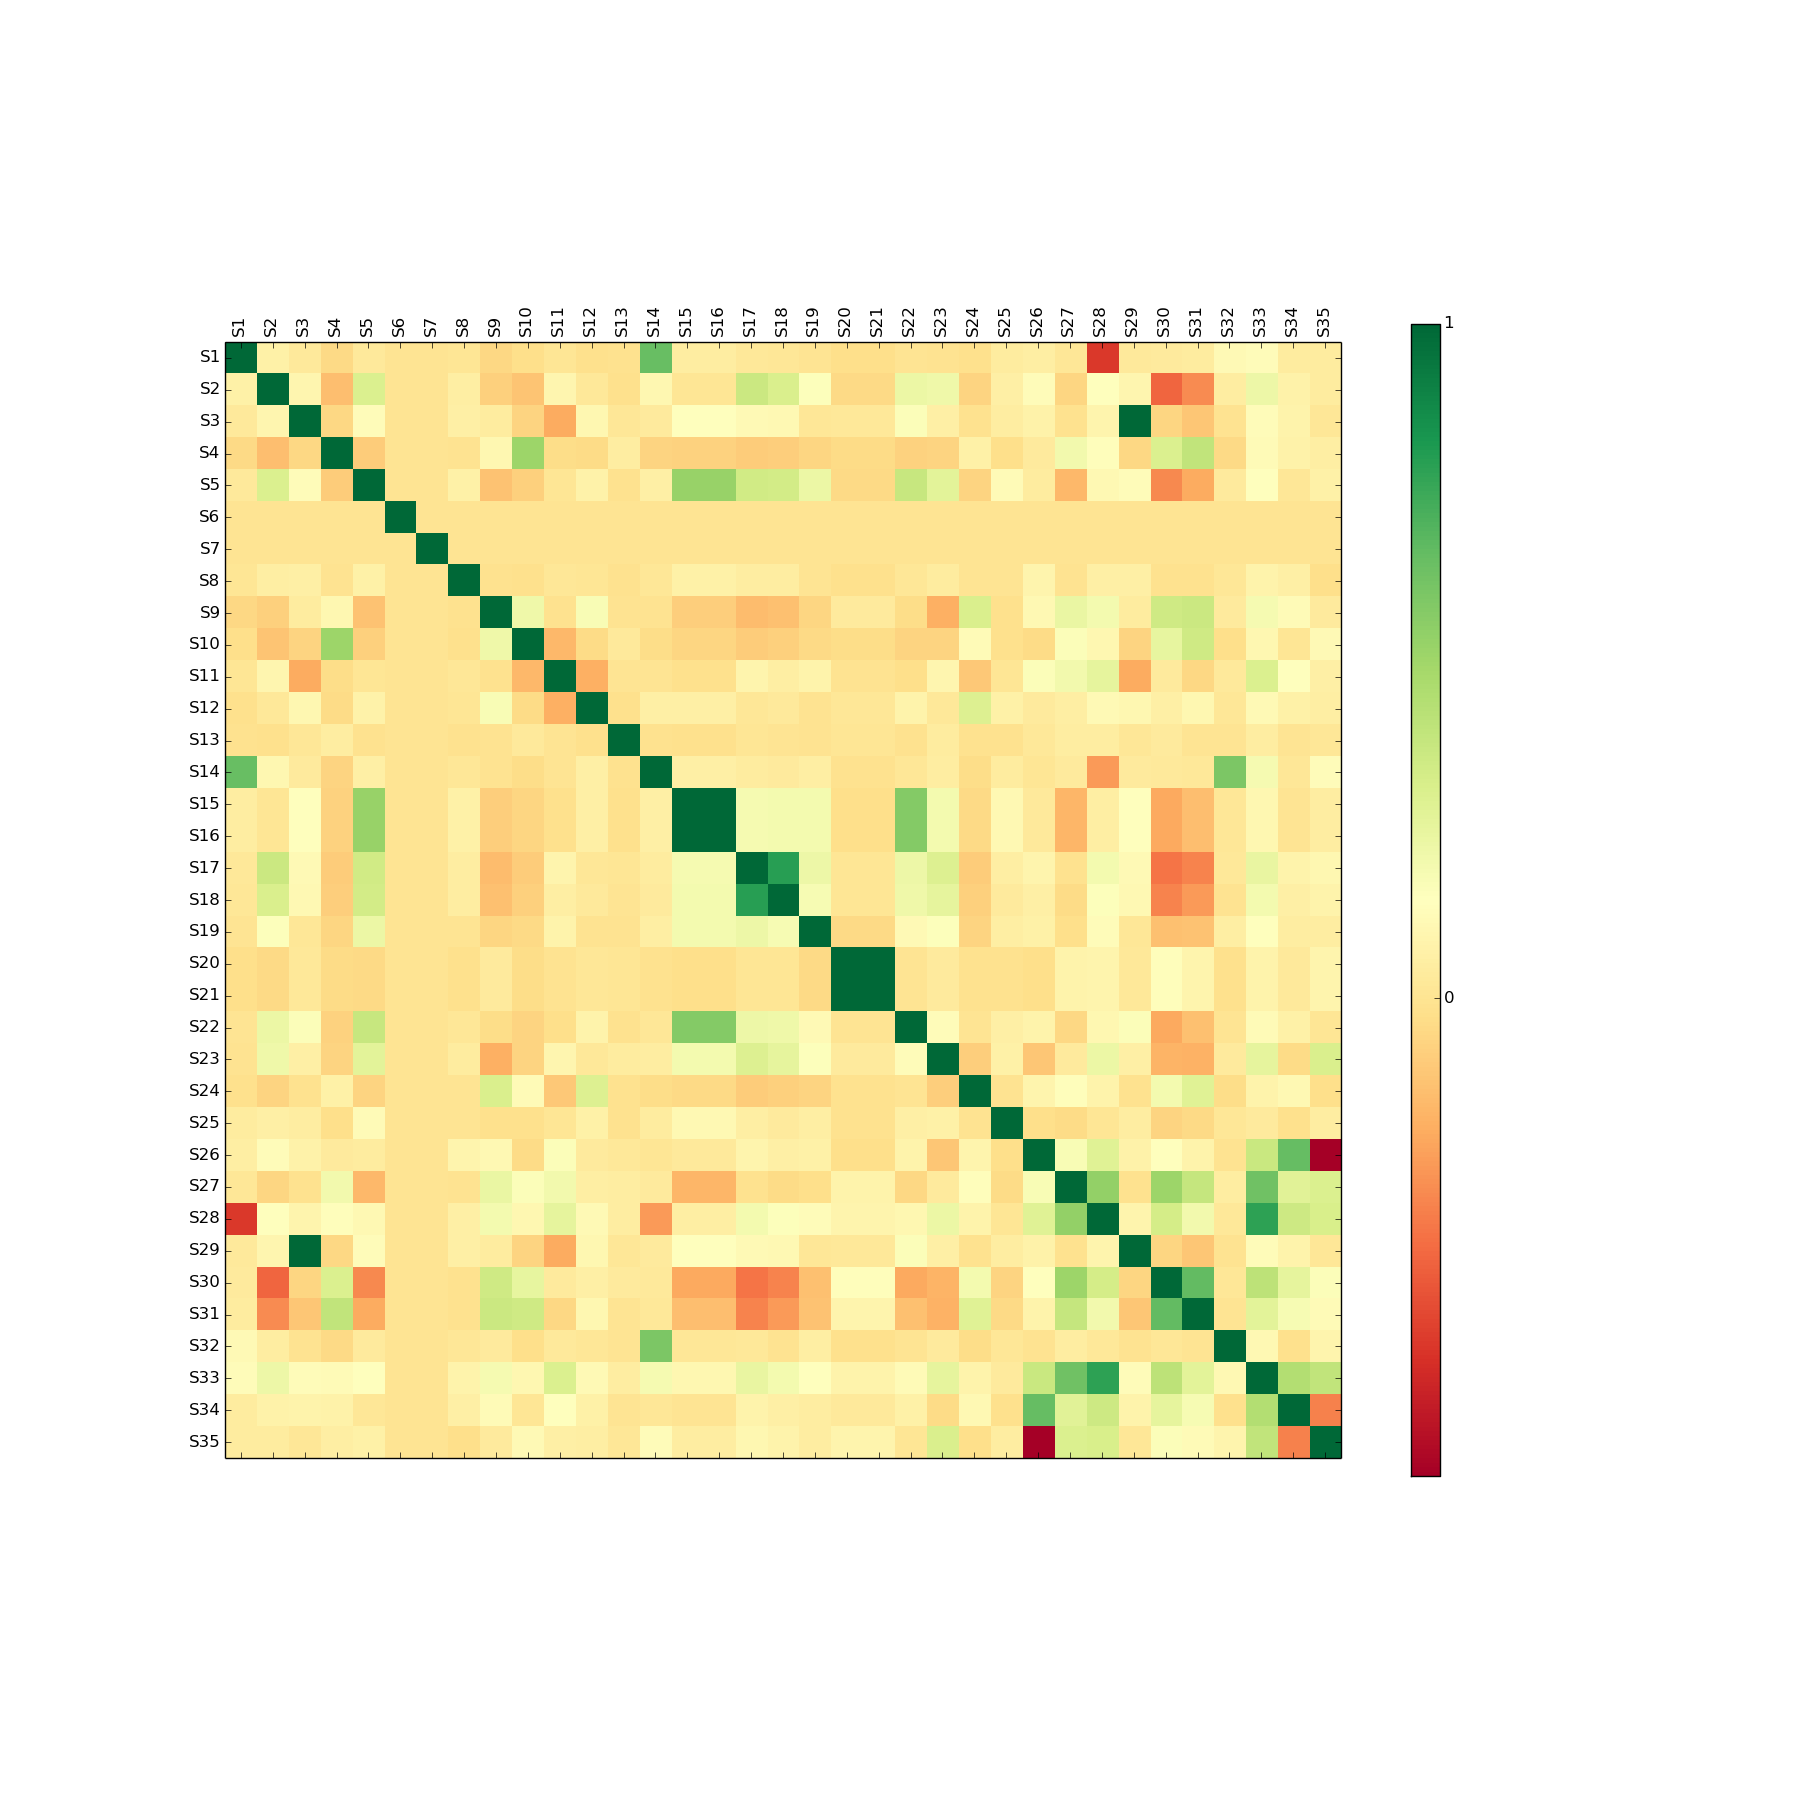
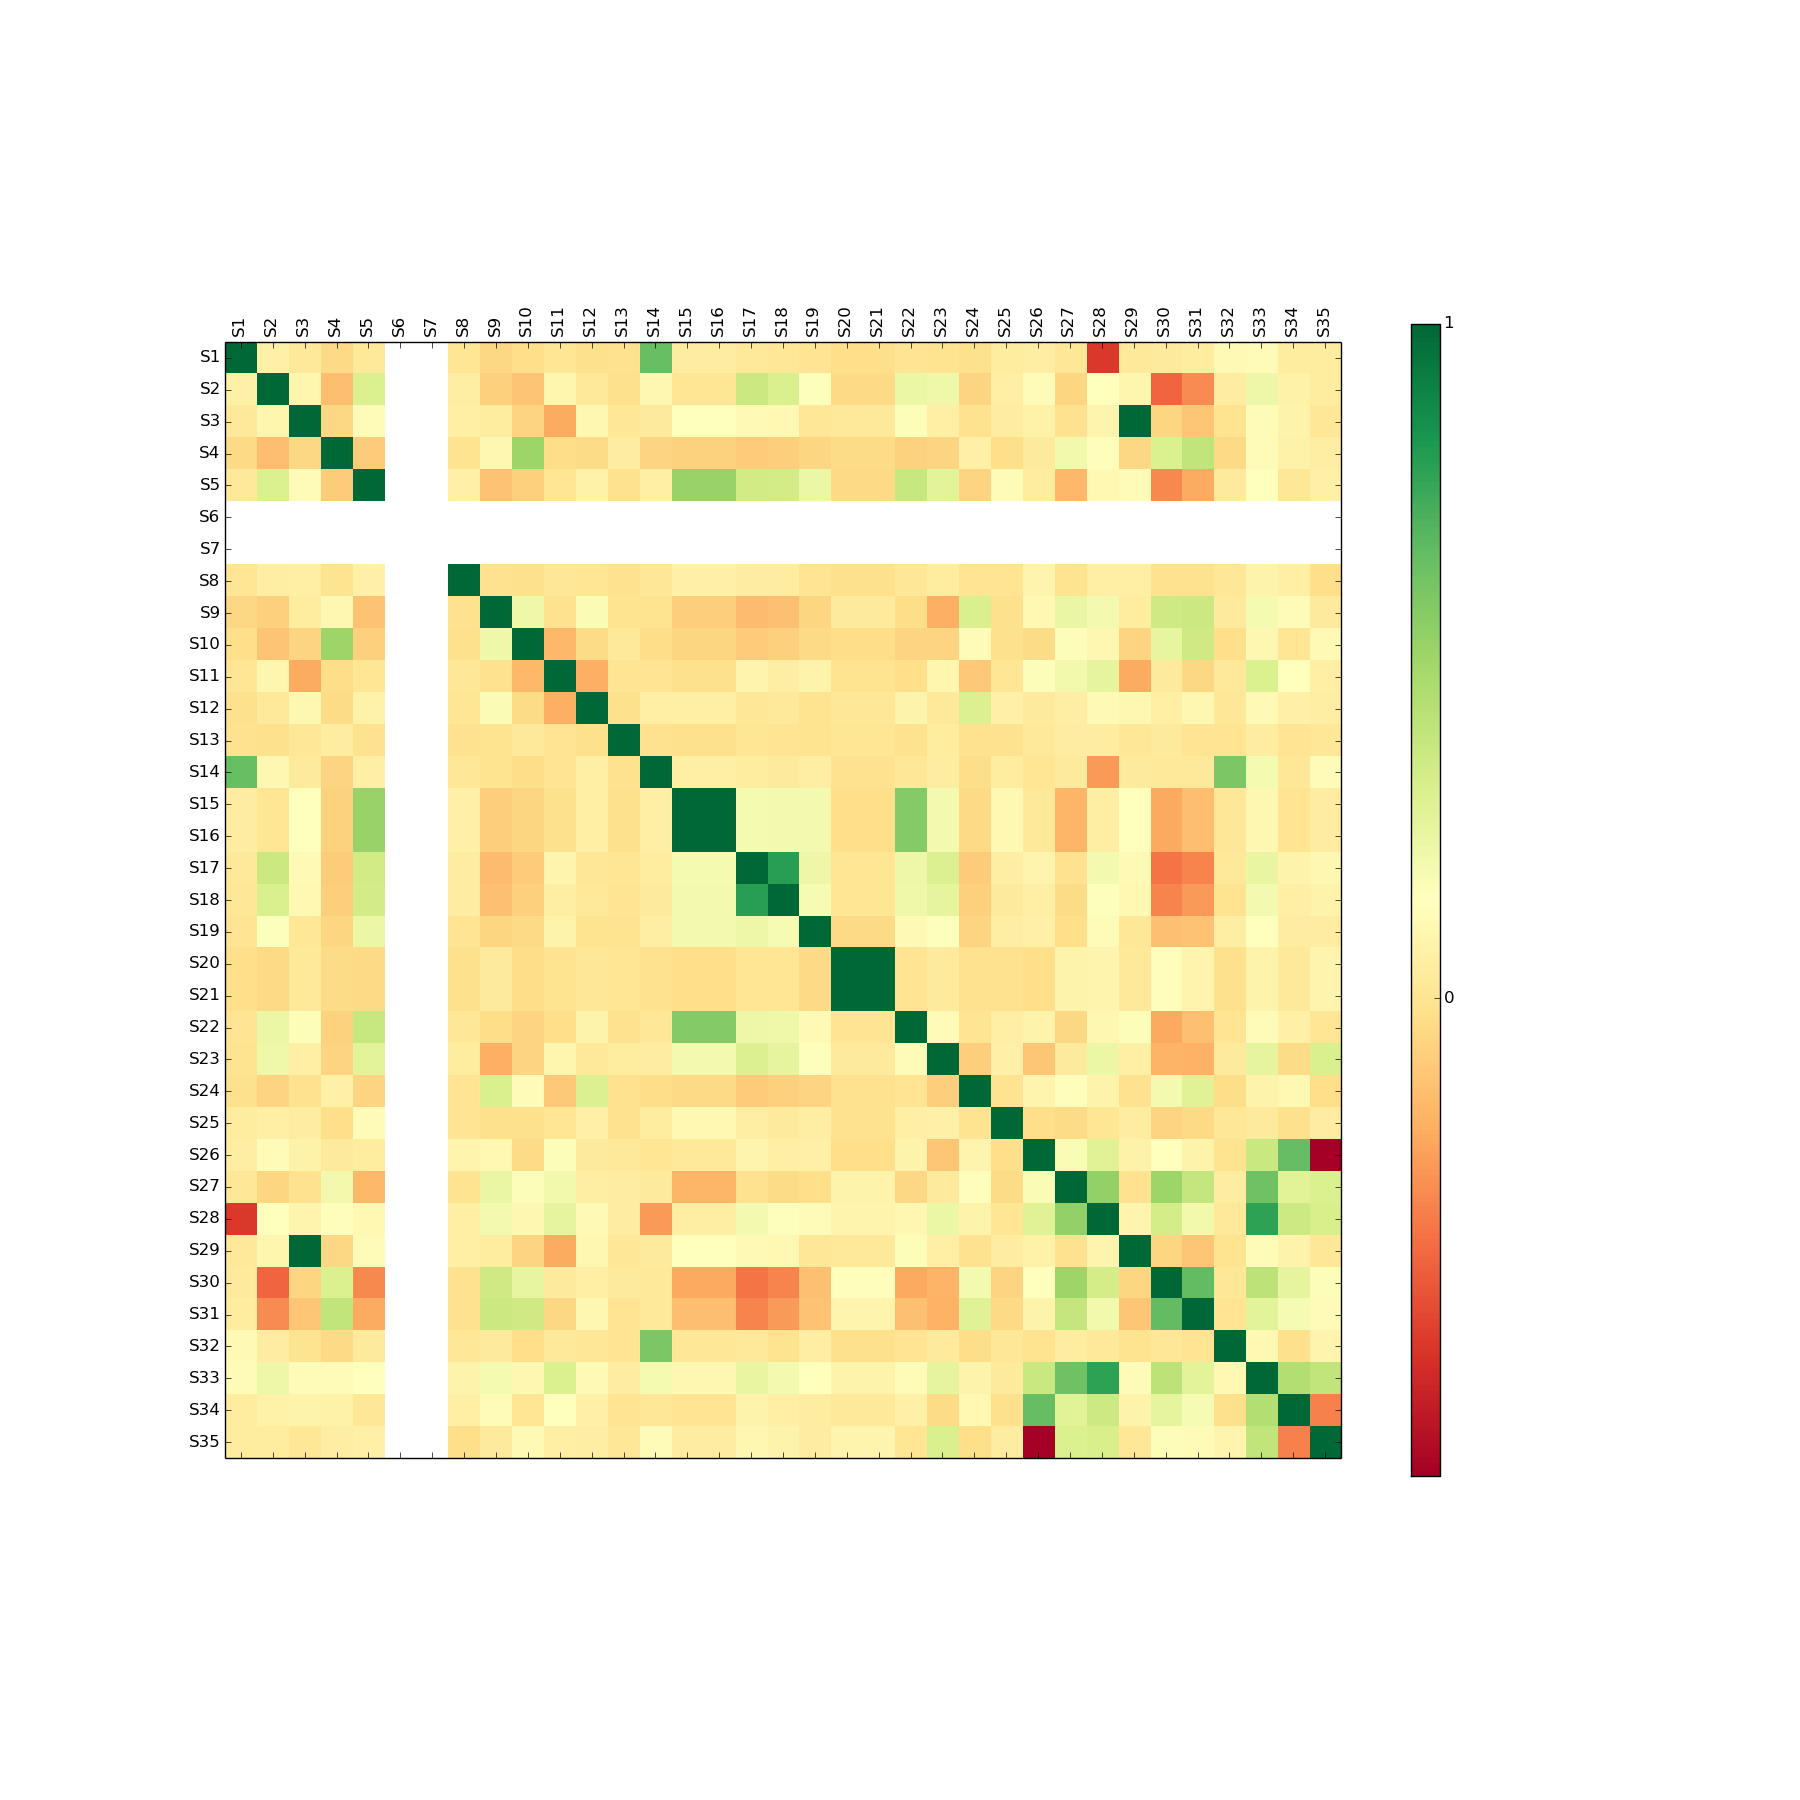
correlation clustering working, but not 100%

Changed region(s): [[0.1244, 0.1867, 0.7467, 0.8089]]

diff --git a/dataProcessing.py b/dataProcessing.py
@@ -7,17 +7,13 @@ import scipy.cluster.hierarchy as sch
 
 DIR = 'Datasets'
 numFiles = len([name for name in os.listdir(DIR) if os.path.isfile(os.path.join(DIR, name))]) - 1
+correlations = []
 
-n = 1
-while n <= numFiles:
-    names = ['Classes', 'S1', 'S2', 'S3', 'S4', 'S5', 'S6', 'S7', 'S8', 'S9', 'S10', 'S11', 'S12', 'S13', 'S14', 'S15', 'S16', 'S17', 'S18', 'S19', 'S20', 'S21', 'S22', 'S23', 'S24', 'S25', 'S26', 'S27', 'S28', 'S29', 'S30', 'S31', 'S32', 'S33', 'S34', 'S35', 'SMELLS', 'HASS','CHANGES', 'HASC']
-    fileName = DIR + "/" + str(n) + ".csv"
-    data = pandas.read_csv(fileName, header=0, names=names)
-    data.drop(['Classes', 'SMELLS', 'HASS','CHANGES', 'HASC'], axis = 1, inplace = True)  
-    names = ['S1', 'S2', 'S3', 'S4', 'S5', 'S6', 'S7', 'S8', 'S9', 'S10', 'S11', 'S12', 'S13', 'S14', 'S15', 'S16', 'S17', 'S18', 'S19', 'S20', 'S21', 'S22', 'S23', 'S24', 'S25', 'S26', 'S27', 'S28', 'S29', 'S30', 'S31', 'S32', 'S33', 'S34', 'S35']
+def plot_corr(df,size,n):
 
-    correlations = data.corr()
-
+    # Compute the correlation matrix for the received dataframe
+    correlations = df.corr()
+    
     i = 0
     while i < (len(correlations)):
         value = -1
@@ -32,7 +28,17 @@ while n <= numFiles:
                 correlations[string][j] = value
             j += 1
         i += 1
-
+    
+    # Plot the correlation matrix
+    fig, ax = plt.subplots(figsize=(size, size))
+    cax = ax.matshow(correlations, cmap='RdYlGn')
+    plt.xticks(range(len(correlations.columns)), correlations.columns, rotation=90)
+    plt.yticks(range(len(correlations.columns)), correlations.columns)
+    
+    # Add the colorbar legend
+    cbar = fig.colorbar(cax, ticks=[-1, 0, 1], aspect=40, shrink=.8)
+    plt.savefig('Correlation/correlation'+str(n)+'.png')
+    
     newFileName = "Processing/Smells" + str(n) + ".csv"
     with open(newFileName, 'wb') as csvfile:
         filewriter = csv.writer(csvfile, delimiter=',',
@@ -43,16 +49,78 @@ while n <= numFiles:
             string = 'S' + str(i+1) 
             filewriter.writerow([string, correlations.S1[i], correlations.S2[i], correlations.S3[i], correlations.S4[i], correlations.S5[i], correlations.S6[i], correlations.S7[i], correlations.S8[i], correlations.S9[i], correlations.S10[i], correlations.S11[i], correlations.S12[i], correlations.S13[i], correlations.S14[i], correlations.S15[i], correlations.S16[i], correlations.S17[i], correlations.S18[i], correlations.S19[i], correlations.S20[i], correlations.S21[i], correlations.S22[i], correlations.S23[i], correlations.S24[i], correlations.S25[i], correlations.S26[i], correlations.S27[i], correlations.S28[i], correlations.S29[i], correlations.S30[i], correlations.S31[i], correlations.S32[i], correlations.S33[i], correlations.S34[i], correlations.S35[i]])
             i += 1  
+
+def plot_corr_clustering(df,size,n):
+
+    # Compute the correlation matrix for the received dataframe
+    correlations = df.corr()
     
-    size = 18 
+    i = 0
+    while i < (len(correlations)):
+        value = -1
+        j = 0
+        string = 'S' + str(i+1)
+        while j < (len(correlations[string])):
+            if numpy.isnan(correlations[string][j]):
+                if i == j:
+                    value = 1
+                else:
+                    value = 0    
+                correlations[string][j] = value
+            j += 1
+        i += 1
+    
+    # Plot the correlation matrix
     fig, ax = plt.subplots(figsize=(size, size))
     cax = ax.matshow(correlations, cmap='RdYlGn')
     plt.xticks(range(len(correlations.columns)), correlations.columns, rotation=90)
     plt.yticks(range(len(correlations.columns)), correlations.columns)
-
+    
     # Add the colorbar legend
     cbar = fig.colorbar(cax, ticks=[-1, 0, 1], aspect=40, shrink=.8)
+    plt.savefig('CorrelationClustering/clustering'+str(n)+'.png')
 
-    plt.savefig('Correlation/correlation'+str(n)+'.png')
+n = 1
+while n <= numFiles:
+    names = ['Classes', 'S1', 'S2', 'S3', 'S4', 'S5', 'S6', 'S7', 'S8', 'S9', 'S10', 'S11', 'S12', 'S13', 'S14', 'S15', 'S16', 'S17', 'S18', 'S19', 'S20', 'S21', 'S22', 'S23', 'S24', 'S25', 'S26', 'S27', 'S28', 'S29', 'S30', 'S31', 'S32', 'S33', 'S34', 'S35', 'SMELLS', 'HASS','CHANGES', 'HASC']
+    fileName = DIR + "/" + str(n) + ".csv"
+    data = pandas.read_csv(fileName, header=0, names=names)
+    data.drop(['Classes', 'SMELLS', 'HASS','CHANGES', 'HASC'], axis = 1, inplace = True)  
+    names = ['S1', 'S2', 'S3', 'S4', 'S5', 'S6', 'S7', 'S8', 'S9', 'S10', 'S11', 'S12', 'S13', 'S14', 'S15', 'S16', 'S17', 'S18', 'S19', 'S20', 'S21', 'S22', 'S23', 'S24', 'S25', 'S26', 'S27', 'S28', 'S29', 'S30', 'S31', 'S32', 'S33', 'S34', 'S35']
+
+    plot_corr(data,18,n)
+    
+    cluster_th = 4
+
+    X = data.corr().values
+    d = sch.distance.pdist(X)
+    L = sch.linkage(d, method='complete')
+    ind = sch.fcluster(L, 0.5*d.max(), 'distance')
+
+    columns = [data.columns.tolist()[i] for i in list(numpy.argsort(ind))]
+    df = data.reindex_axis(columns, axis=1)
+
+    unique, counts = numpy.unique(ind, return_counts=True)
+    counts = dict(zip(unique, counts))
+
+    i = 0
+    j = 0
+    columns = []
+    for cluster_l1 in set(sorted(ind)):
+        j += counts[cluster_l1]
+        sub = df[df.columns.values[i:j]]
+        if counts[cluster_l1]>cluster_th:        
+            X = sub.corr().values
+            d = sch.distance.pdist(X)
+            L = sch.linkage(d, method='complete')
+            ind = sch.fcluster(L, 0.5*d.max(), 'distance')
+            col = [sub.columns.tolist()[i] for i in list((numpy.argsort(ind)))]
+            sub = sub.reindex_axis(col, axis=1)
+        cols = sub.columns.tolist()
+        columns.extend(cols)
+        i = j
+    df = df.reindex_axis(columns, axis=1)
+    
+    plot_corr_clustering(df,18,n)
 
     n += 1      
